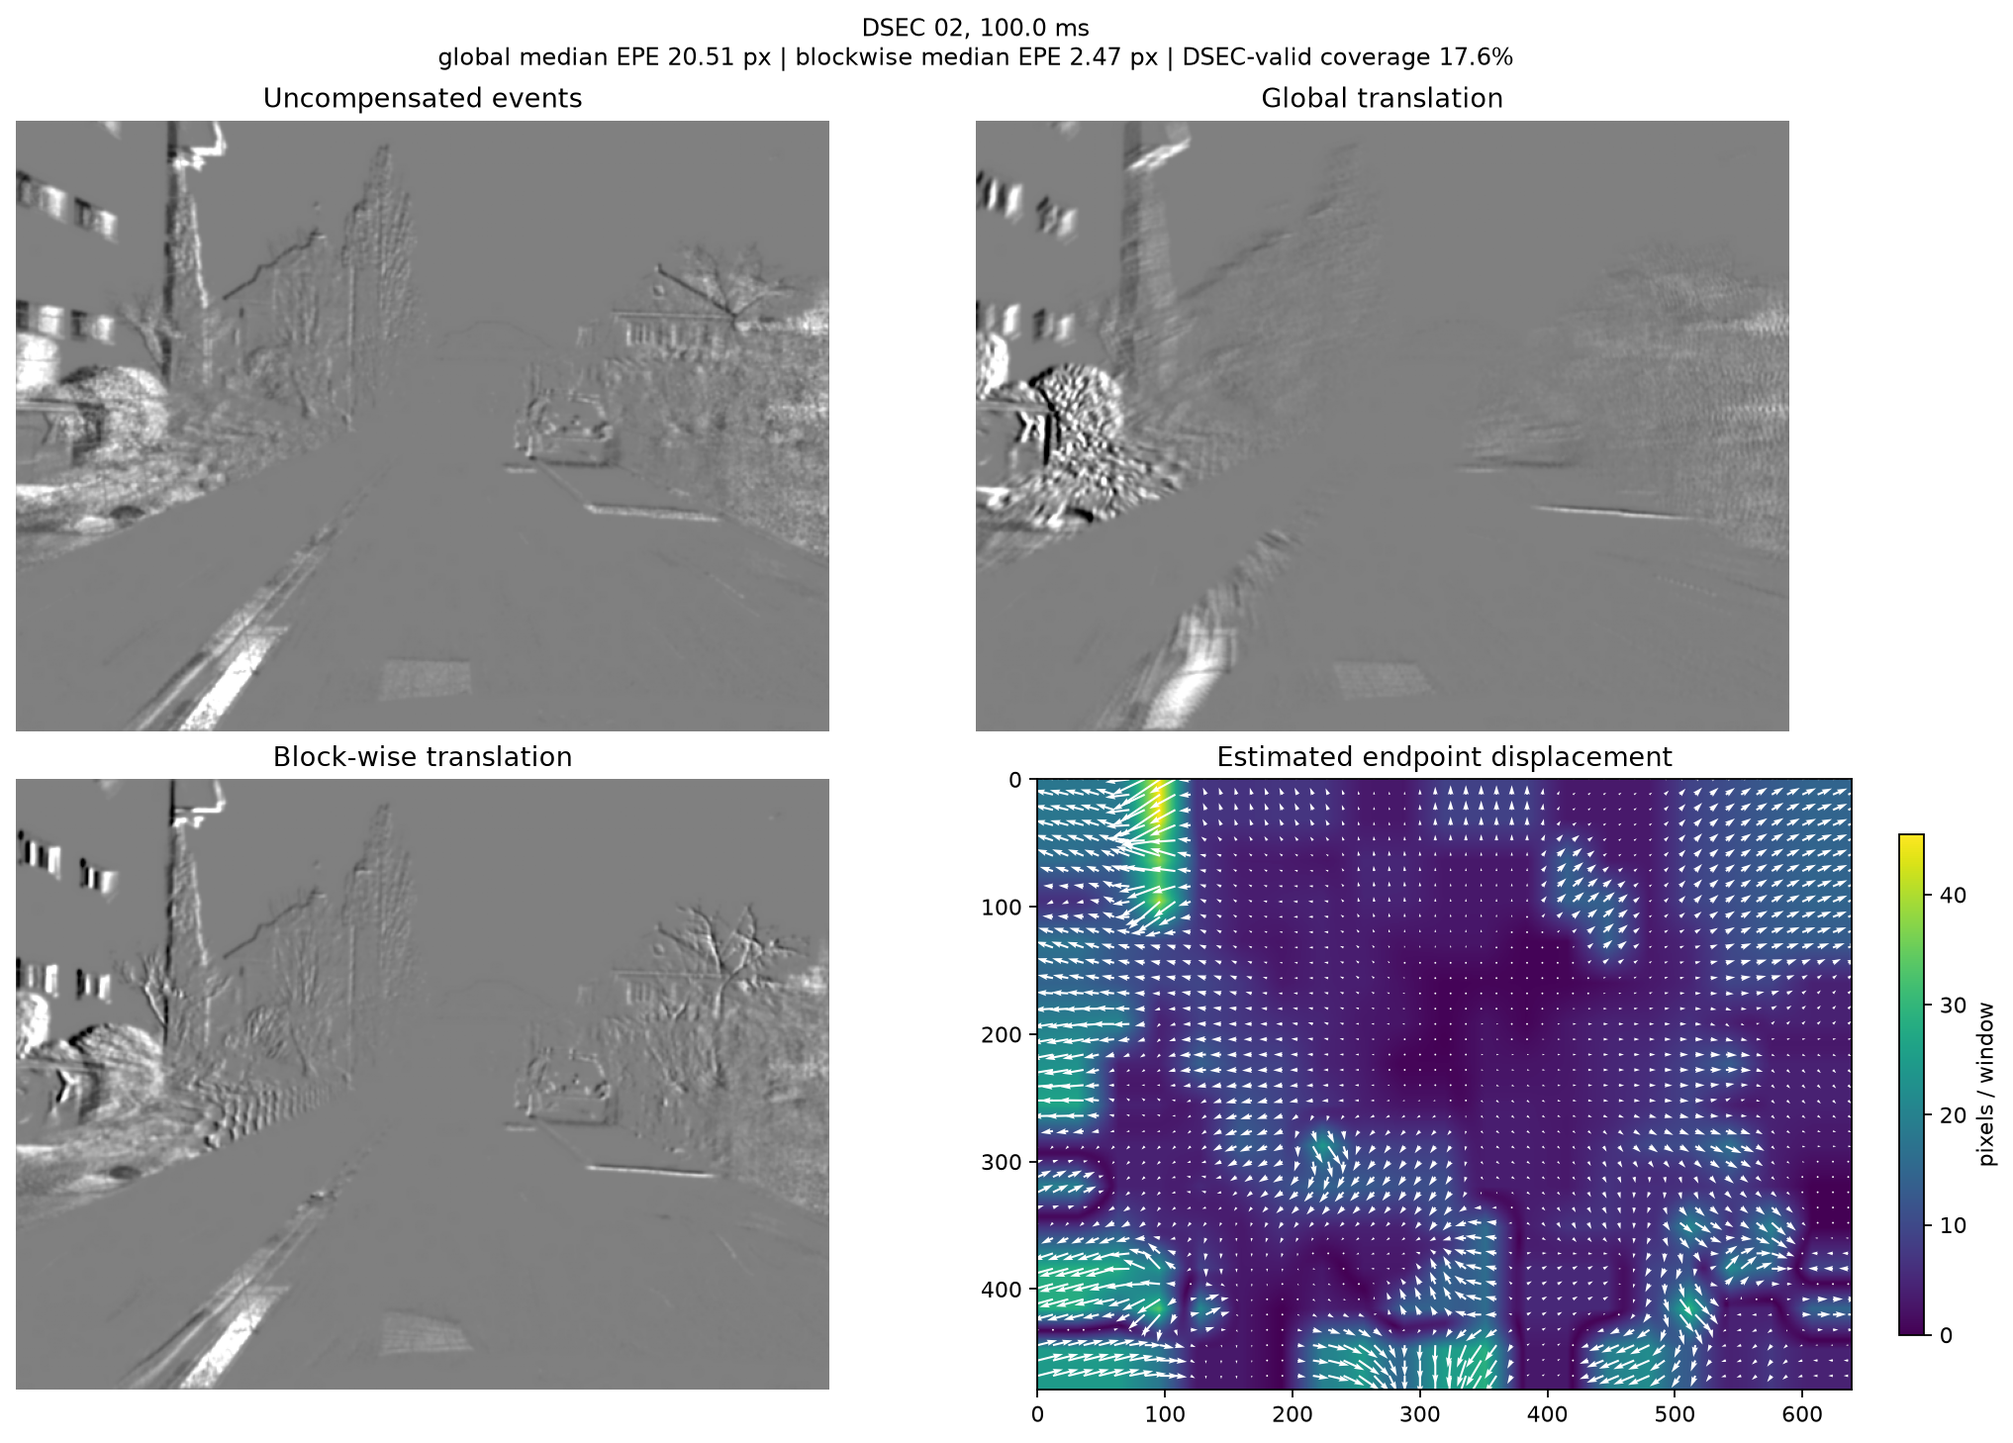
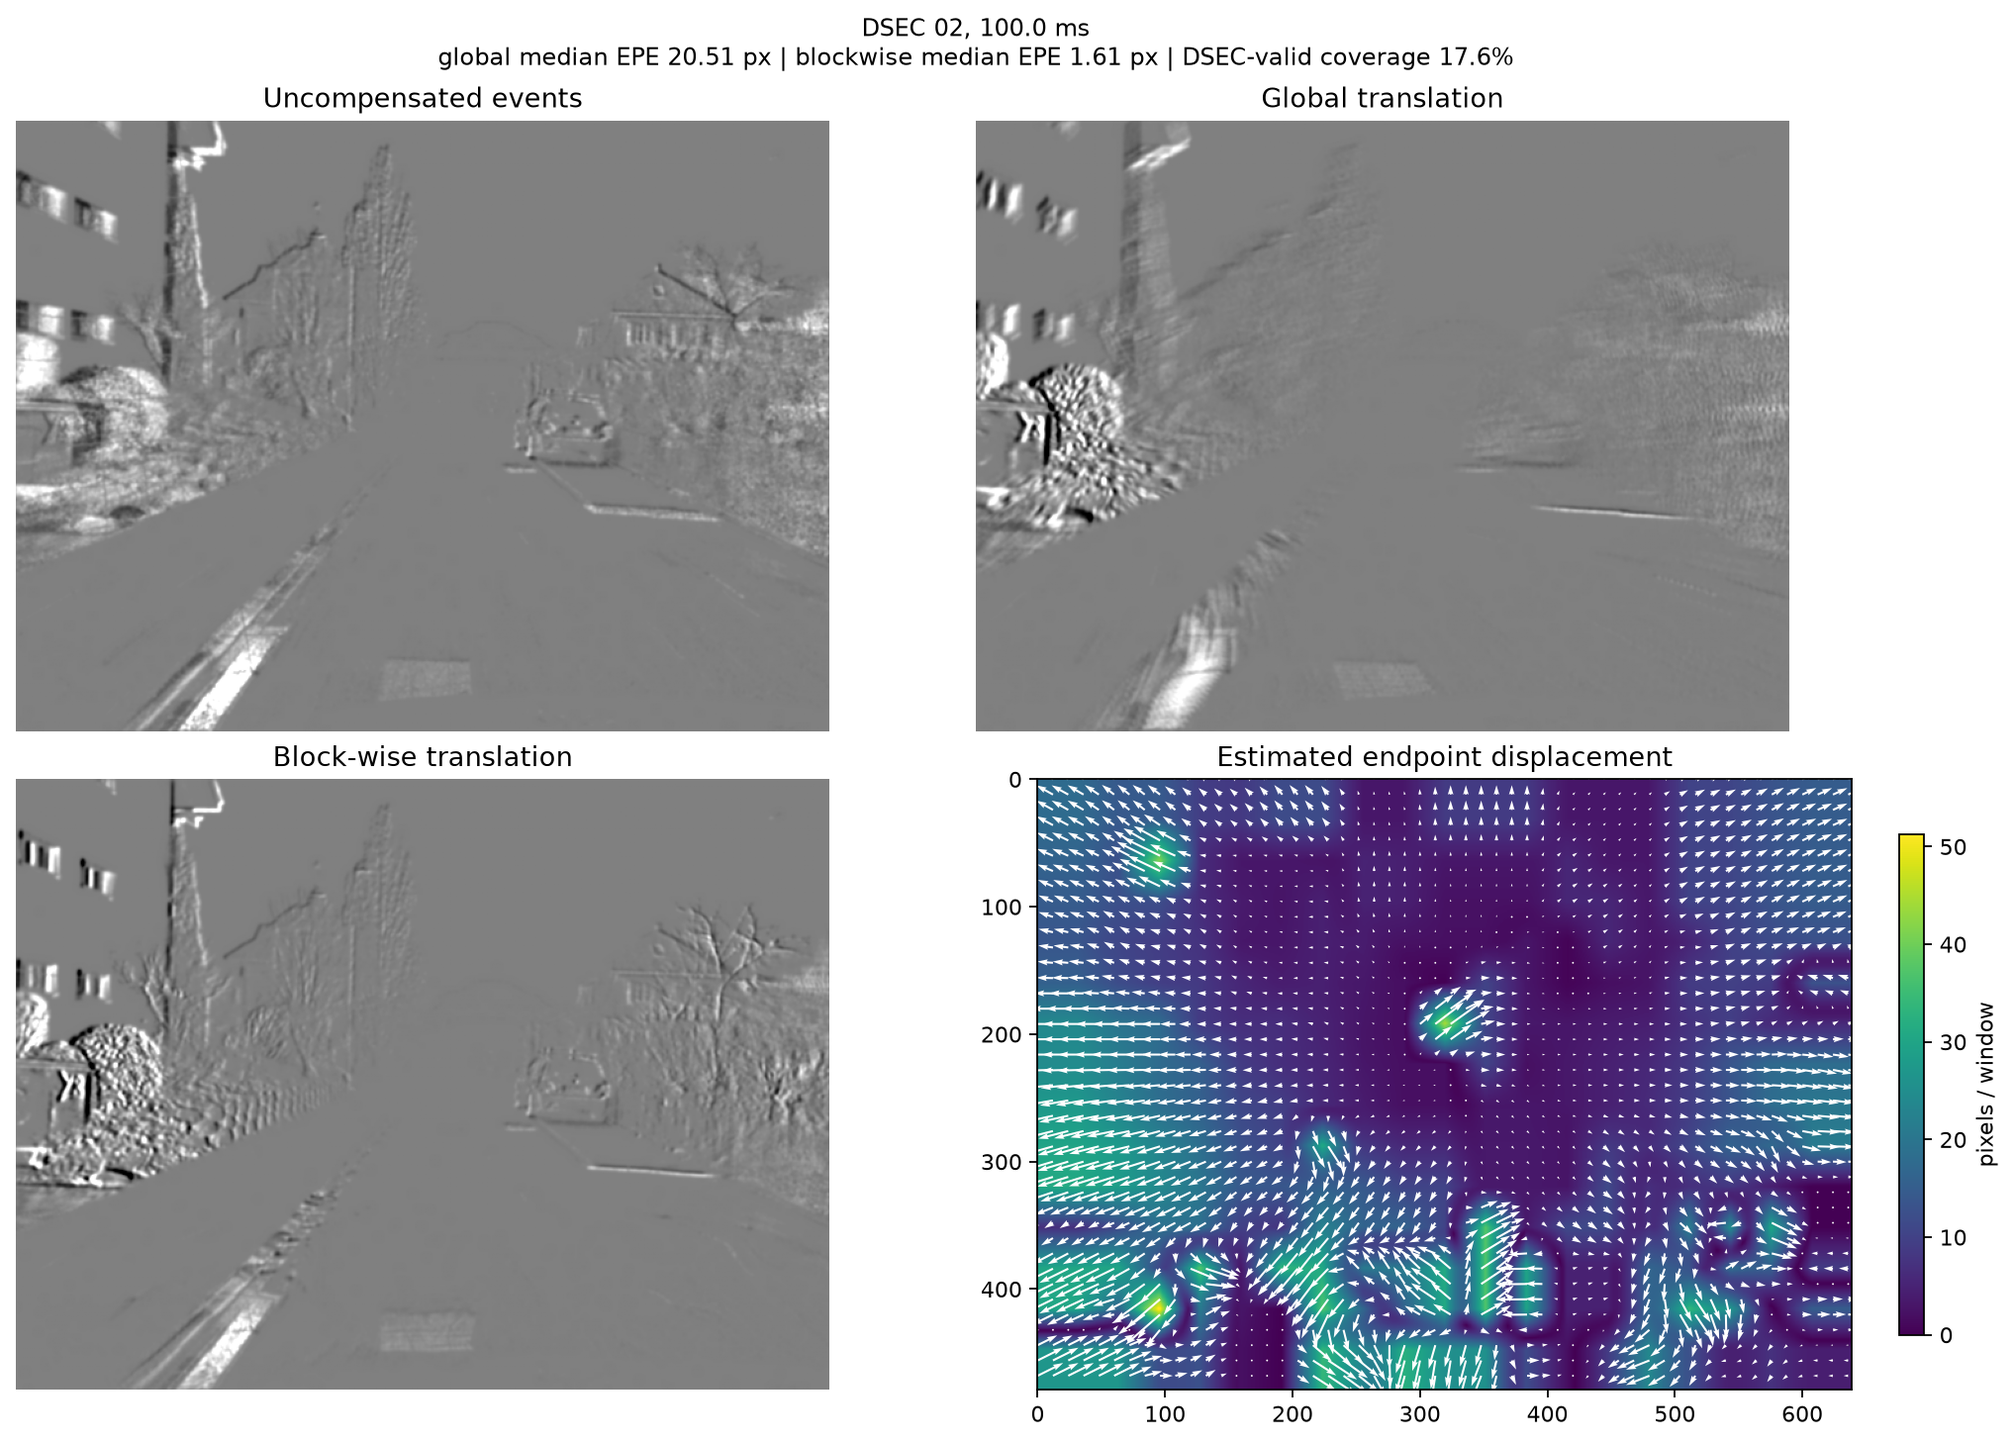
Fix blockwise phase initialization aliasing

diff --git a/dsec_mc/blockwise.py b/dsec_mc/blockwise.py
@@ -17,8 +17,11 @@ from .algorithm import contrast_objective, refocus_event_slices
 class BlockwiseTranslation:
     vx_grid: np.ndarray
     vy_grid: np.ndarray
+    initial_vx_grid: np.ndarray
+    initial_vy_grid: np.ndarray
     confidence_grid: np.ndarray
     valid_grid: np.ndarray
+    source_grid: np.ndarray
     center_y: np.ndarray
     center_x: np.ndarray
     fallback_vx: float
@@ -163,7 +166,11 @@ def _refine_tile_translation(
     refine_radius: int,
     max_abs_shift: float,
 ) -> tuple[float, float, float, float]:
-    local_bound = int(np.ceil(max(abs(initial[0]), abs(initial[1])))) + refine_radius
+    bins = len(slices)
+    temporal_factor = (bins - 1) / (2.0 * bins)
+    local_bound = int(
+        np.ceil(max(abs(initial[0]), abs(initial[1])) * temporal_factor)
+    ) + refine_radius
     if local_bound >= min(slices[0].shape) / 2 - 2:
         return initial[0], initial[1], 1.0, 0.0
 
@@ -212,6 +219,41 @@ def _nearest_fill(values: np.ndarray, valid: np.ndarray) -> np.ndarray:
     return values[tuple(indices)]
 
 
+def choose_phase_initialization(
+    long_candidate: tuple[float, float, float],
+    short_candidates: list[tuple[float, float, float]],
+) -> tuple[float, float, str]:
+    """
+    Select a phase-correlation initialization.
+
+    Adjacent temporal groups are preferred when both independently agree. This
+    avoids the long-baseline correlation peak collapsing to zero when event
+    correspondences decorrelate over the full window.
+    """
+    long_vx, long_vy, long_score = long_candidate
+    usable_short = [
+        candidate for candidate in short_candidates if candidate[2] >= 2.0
+    ]
+    if len(usable_short) == 2:
+        first, second = usable_short
+        short_vx = 0.5 * (first[0] + second[0])
+        short_vy = 0.5 * (first[1] + second[1])
+        first_norm = np.hypot(first[0], first[1])
+        second_norm = np.hypot(second[0], second[1])
+        disagreement = np.hypot(first[0] - second[0], first[1] - second[1])
+        tolerance = max(6.0, 0.30 * max(first_norm, second_norm))
+        if disagreement <= tolerance:
+            return float(short_vx), float(short_vy), "short-consensus"
+
+    if long_score >= 2.0 and np.hypot(long_vx, long_vy) > 2.0:
+        return float(long_vx), float(long_vy), "long"
+
+    if usable_short:
+        best = max(usable_short, key=lambda candidate: candidate[2])
+        return float(best[0]), float(best[1]), "short-single"
+    return float(long_vx), float(long_vy), "long-low-confidence"
+
+
 def estimate_blockwise_translation(
     volume: np.ndarray,
     *,
@@ -230,9 +272,13 @@ def estimate_blockwise_translation(
     phase_bins = min(max(1, phase_bins), bins // 2)
     early = np.abs(volume[:phase_bins]).sum(axis=0)
     late = np.abs(volume[-phase_bins:]).sum(axis=0)
+    short_indices = np.rint(np.linspace(0, bins - 1, 3)).astype(np.int32)
+    short_images = [np.abs(volume[index]) for index in short_indices]
     early_center = np.mean((np.arange(phase_bins) + 0.5) / bins)
     late_center = np.mean((np.arange(bins - phase_bins, bins) + 0.5) / bins)
     time_delta = late_center - early_center
+    short_delta = (short_indices[1] - short_indices[0]) / bins
+    short_delta_late = (short_indices[2] - short_indices[1]) / bins
 
     tile_size = min(tile_size, height, width)
     y_starts = _tile_starts(height, tile_size, min(stride, tile_size))
@@ -241,8 +287,11 @@ def estimate_blockwise_translation(
     center_x = np.asarray([start + (tile_size - 1) / 2 for start in x_starts])
     vx_grid = np.zeros((len(y_starts), len(x_starts)), dtype=np.float32)
     vy_grid = np.zeros_like(vx_grid)
+    initial_vx_grid = np.zeros_like(vx_grid)
+    initial_vy_grid = np.zeros_like(vx_grid)
     confidence = np.zeros_like(vx_grid)
     valid = np.zeros_like(vx_grid, dtype=bool)
+    source_grid = np.full(vx_grid.shape, "none", dtype="<U22")
     phase_vectors: list[tuple[float, float]] = []
 
     for iy, y0 in enumerate(y_starts):
@@ -258,16 +307,69 @@ def estimate_blockwise_translation(
             )
             phase_vx = phase_dx / max(time_delta, 1e-8)
             phase_vy = phase_dy / max(time_delta, 1e-8)
-            phase_vectors.append((phase_vx, phase_vy))
+            short_tiles = [
+                image[y0:y0 + tile_size, x0:x0 + tile_size]
+                for image in short_images
+            ]
+            short_events = [int(np.count_nonzero(image)) for image in short_tiles]
+            early_mid_dx, early_mid_dy, early_mid_score = phase_correlation_shift(
+                short_tiles[0],
+                short_tiles[1],
+            )
+            middle_late_dx, middle_late_dy, middle_late_score = phase_correlation_shift(
+                short_tiles[1],
+                short_tiles[2],
+            )
+            min_phase_events = max(20, min_events // 8)
+            short_candidates: list[tuple[float, float, float]] = []
+            if short_events[0] >= min_phase_events and short_events[1] >= min_phase_events:
+                short_candidates.append(
+                    (
+                        early_mid_dx / max(short_delta, 1e-8),
+                        early_mid_dy / max(short_delta, 1e-8),
+                        early_mid_score,
+                    )
+                )
+            if short_events[1] >= min_phase_events and short_events[2] >= min_phase_events:
+                short_candidates.append(
+                    (
+                        middle_late_dx / max(short_delta_late, 1e-8),
+                        middle_late_dy / max(short_delta_late, 1e-8),
+                        middle_late_score,
+                    )
+                )
+
+            initial_vx, initial_vy, phase_source = choose_phase_initialization(
+                (phase_vx, phase_vy, phase_score),
+                short_candidates,
+            )
+            short_scores = [candidate[2] for candidate in short_candidates]
+            selected_phase_score = (
+                float(np.median(short_scores))
+                if phase_source == "short-consensus"
+                else phase_score
+            )
 
             if signed_count < min_events:
                 continue
-            if phase_events < min_events // 2 or phase_score < 2.0:
+            if (
+                phase_source in ("long-low-confidence", "long")
+                and phase_events < min_events // 2
+            ):
                 if fallback is None:
                     continue
                 initial = fallback
+                phase_source = "fallback"
             else:
-                initial = (phase_vx, phase_vy)
+                initial = (initial_vx, initial_vy)
+            initial = (
+                float(np.clip(initial[0], -max_abs_shift, max_abs_shift)),
+                float(np.clip(initial[1], -max_abs_shift, max_abs_shift)),
+            )
+            phase_vectors.append(initial)
+            initial_vx_grid[iy, ix] = initial[0]
+            initial_vy_grid[iy, ix] = initial[1]
+            source_grid[iy, ix] = phase_source
 
             tile_slices = [item for item in tile]
             refined_vx, refined_vy, contrast_gain, _bound = _refine_tile_translation(
@@ -279,7 +381,10 @@ def estimate_blockwise_translation(
             vx_grid[iy, ix] = refined_vx
             vy_grid[iy, ix] = refined_vy
             event_confidence = min(1.0, signed_count / max(float(tile_size * tile_size), 1.0))
-            phase_confidence = min(1.0, max(0.0, (phase_score - 2.0) / 8.0))
+            phase_confidence = min(
+                1.0,
+                max(0.0, (selected_phase_score - 2.0) / 8.0),
+            )
             contrast_confidence = min(1.0, max(0.0, (contrast_gain - 1.0) / 2.0))
             confidence[iy, ix] = (
                 0.25 * event_confidence
@@ -294,8 +399,11 @@ def estimate_blockwise_translation(
         return BlockwiseTranslation(
             vx_grid=np.full_like(vx_grid, fallback[0]),
             vy_grid=np.full_like(vy_grid, fallback[1]),
+            initial_vx_grid=np.full_like(initial_vx_grid, fallback[0]),
+            initial_vy_grid=np.full_like(initial_vy_grid, fallback[1]),
             confidence_grid=np.ones_like(vx_grid),
             valid_grid=np.ones_like(valid),
+            source_grid=np.full_like(source_grid, "fallback"),
             center_y=center_y,
             center_x=center_x,
             fallback_vx=float(fallback[0]),
@@ -326,8 +434,11 @@ def estimate_blockwise_translation(
     return BlockwiseTranslation(
         vx_grid=vx_filled,
         vy_grid=vy_filled,
+        initial_vx_grid=initial_vx_grid,
+        initial_vy_grid=initial_vy_grid,
         confidence_grid=confidence,
         valid_grid=valid,
+        source_grid=source_grid,
         center_y=center_y,
         center_x=center_x,
         fallback_vx=float(fallback[0]),

diff --git a/scripts/run_blockwise_demo.py b/scripts/run_blockwise_demo.py
@@ -179,6 +179,16 @@ def main() -> None:
             ],
             "runtime_s": time.perf_counter() - window_started,
         }
+        for source in (
+            "short-consensus",
+            "short-single",
+            "long",
+            "long-low-confidence",
+            "fallback",
+            "none",
+        ):
+            key = f"blocks_{source.replace('-', '_')}"
+            row[key] = int(np.count_nonzero(block_estimate.source_grid == source))
         for center_y, center_x in PATCHES:
             radius = 64
             region = (
@@ -208,6 +218,20 @@ def main() -> None:
             row[f"blockwise_{suffix}_median_epe_px"] = block_patch[
                 "median_endpoint_error_px"
             ]
+            patch_valid = flow_valid[region[0]:region[1], region[2]:region[3]]
+            patch_field = np.stack(
+                [
+                    vx_field[region[0]:region[1], region[2]:region[3]],
+                    vy_field[region[0]:region[1], region[2]:region[3]],
+                ],
+                axis=-1,
+            )[patch_valid]
+            row[f"blockwise_{suffix}_field_median_vx_px"] = float(
+                np.median(patch_field[:, 0])
+            )
+            row[f"blockwise_{suffix}_field_median_vy_px"] = float(
+                np.median(patch_field[:, 1])
+            )
         results.append(row)
 
         figure_path = args.output_dir / f"blockwise_f{flow_index:02d}.png"

diff --git a/tests/test_blockwise.py b/tests/test_blockwise.py
@@ -7,10 +7,24 @@ from scipy.ndimage import shift as image_shift
 sys.path.insert(0, str(Path(__file__).resolve().parents[1]))
 
 from dsec_mc.blockwise import (
+    choose_phase_initialization,
     estimate_blockwise_translation,
     phase_correlation_shift,
     slice_event_images,
 )
+
+
+def test_short_baseline_resolves_spurious_zero_long_peak() -> None:
+    vx, vy, source = choose_phase_initialization(
+        long_candidate=(0.0, 0.0, 10.0),
+        short_candidates=[
+            (-18.1, 4.5, 12.0),
+            (-17.5, 4.2, 13.0),
+        ],
+    )
+    assert source == "short-consensus"
+    assert abs(vx + 17.8) < 0.5
+    assert abs(vy - 4.35) < 0.5
 
 
 def test_phase_correlation_recovers_content_motion() -> None:

diff --git a/reports/blockwise_translation_report.md b/reports/blockwise_translation_report.md
@@ -15,7 +15,8 @@ No affine or homography model is used.
 - event volume: 9 temporal bins with signed polarity;
 - tile size: `64 x 64`;
 - tile stride: `32`;
-- phase-correlation initialization: first and last 3 bins;
+- phase-correlation initialization: centered single-bin short baselines plus
+  first/last 3-bin long baseline;
 - contrast refinement: +/-3 px around the phase-correlation vector;
 - block displacement bound: +/-48 px;
 - output field: bilinear interpolation through overlapping tile centers;
@@ -30,12 +31,12 @@ and should not be compared directly with the old 1.35 px patch result.
 
 | window | global median EPE | block-wise median EPE | global <= 2 px | block-wise <= 2 px | warp coverage |
 |---:|---:|---:|---:|---:|---:|
-| 2 | 20.51 px | 2.47 px | 1.0% | 43.8% | 99.1% |
-| 8 | 23.58 px | 2.39 px | 0.8% | 45.8% | 99.3% |
-| 12 | 11.73 px | 2.26 px | 0.8% | 45.8% | 99.2% |
-| mean | 18.61 px | 2.37 px | 0.8% | 45.1% | 99.2% |
+| 2 | 20.51 px | 1.61 px | 1.0% | 58.1% | 98.9% |
+| 8 | 23.58 px | 2.03 px | 0.8% | 49.6% | 98.9% |
+| 12 | 11.73 px | 1.64 px | 0.8% | 59.0% | 98.8% |
+| mean | 18.61 px | 1.76 px | 0.8% | 55.6% | 98.8% |
 
-The mean median-EPE reduction is approximately 87%. The full 640 x 480 event
+The mean median-EPE reduction is approximately 90.5%. The full 640 x 480 event
 image is therefore working as a first block-wise baseline.
 
 After inputs are cached, all three windows take about 40 seconds on the local
@@ -56,21 +57,57 @@ contains rotation and depth change.
 
 ![Block-wise comparison](../outputs/blockwise/benchmark_summary.png)
 
-## Failure still visible
+## Initialization failure and correction
 
-The high-texture lower-left patch around `(y=240,x=96)` remains difficult. Its
-per-pixel flow error is 12.22, 15.78, and 14.99 px across the three windows.
-The contrast objective can lock onto a dominant subset of event edges even
-when neighboring flow belongs to another local motion.
+The first implementation used phase correlation over the first 3 and last 3
+temporal bins, then refined only +/-3 px around that result. At flow index 8,
+the tile covering `(y=240,x=96)` had:
 
-This does not invalidate the full-frame result, but it prevents claiming that
-block-wise translation alone is a complete solution. Local affine is the next
-appropriate model for the remaining rotation/scale residual; homography should
-remain deferred until a specific planar region is targeted.
+- DSEC median flow: `(-17.63, +3.71) px`;
+- long-baseline phase result: `(0, 0)` with a misleadingly high peak score;
+- early-to-middle single-bin phase result: `(-18.05, +4.54) px`;
+- middle-to-late single-bin phase result: `(-17.54, +4.25) px`;
+- final pre-fix estimate: `(-3, +3) px`.
+
+The zero peak was not rejected because short-baseline evidence was never
+computed. The fixed initialization uses centered single bins at normalized
+time approximately 0, 0.5, and 1.0. When both short-baseline vectors agree
+within `max(6 px, 30%)`, their average is preferred; otherwise the estimate
+falls back to the long temporal baseline or the global motion. Refinement
+cropping now accounts for the actual per-slice temporal warp factor rather
+than treating the full endpoint displacement as a single-slice shift.
+
+### Before/after
+
+| case | before | after |
+|---|---:|---:|
+| all windows, mean median EPE | 2.37 px | **1.76 px** |
+| all windows, mean EPE <= 2 px | 45.1% | **55.6%** |
+| failure patch, window 2 | 12.22 px | **1.39 px** |
+| failure patch, window 8 | 15.78 px | **2.65 px** |
+| failure patch, window 12 | 14.99 px | **1.76 px** |
+
+This confirms an avoidable estimation-policy defect. The slightly lower warp
+coverage (`99.2%` to `98.8%`) results from retaining larger, more accurate
+local displacements near image boundaries.
+
+## Residual model limitation
+
+The corrected lower-left failure patch still has 1.39-2.65 px per-pixel median
+EPE. Its DSEC flow varies within the patch because of near-field parallax and
+non-linear motion, while block-wise translation represents only one vector per
+interpolated region. This residual belongs to the model boundary and is not
+expected to disappear without local affine, homography, or motion segmentation.
+
+The full-frame result is improved, but block-wise translation is still not a
+complete solution. Local affine remains the appropriate next model for
+rotation/scale residual; homography remains deferred until a specific planar
+region is targeted.
 
 ## Acceptance evidence
 
 - synthetic phase-correlation test passes;
+- synthetic spurious-zero long-baseline regression test passes;
 - synthetic two-region translation test passes;
 - existing constant-translation test passes;
 - complete DSEC replay executes without error;

diff --git a/README.md b/README.md
@@ -84,6 +84,14 @@ Local CPU result for three 100 ms windows and three 128 x 128 patches:
 | mean gradient-energy gain | 8.51x |
 | benchmark runtime after inputs are cached | 4.63 s |
 
+The corrected block-wise experiment uses dense per-pixel DSEC flow evaluation:
+
+| metric | result |
+|---|---:|
+| mean median endpoint error | 1.76 px |
+| mean valid pixels with EPE <= 2 px | 55.6% |
+| mean warp coverage | 98.8% |
+
 The endpoint error is measured against the median valid optical-flow vector in
 each patch. This is an approximation because DSEC's 100 ms flow field contains
 rotation, parallax, and independently moving objects rather than one exact
@@ -117,6 +125,7 @@ only after its synthetic and DSEC validation passes.
 | stage | branch | status |
 |---|---|---|
 | block-wise translation | `exp/blockwise-translation` | implemented and evaluated |
+| block-wise phase fix | `fix/blockwise-phase-initialization` | short-baseline initialization validated |
 | local affine | `exp/local-affine` | deferred |
 | homography | `exp/homography` | deferred |
 
